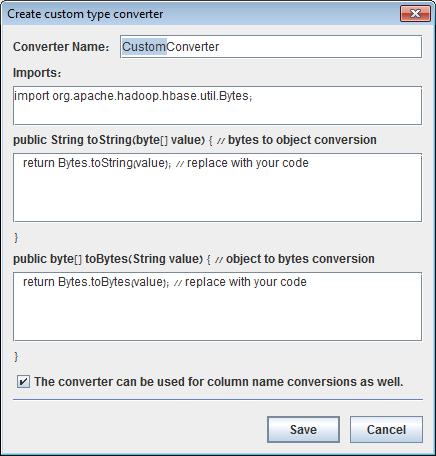
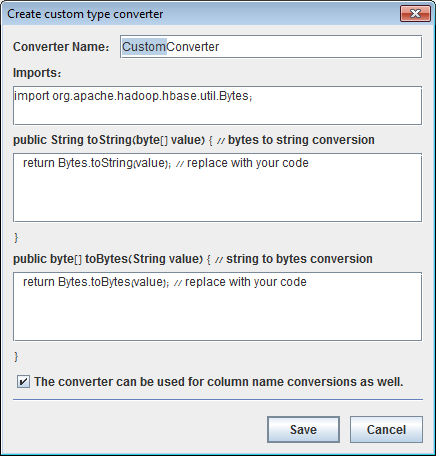
fix misstype

Changed region(s): [[0.6261, 0.2763, 0.8647, 0.3377], [0.5069, 0.5526, 0.8647, 0.5833]]

diff --git a/src/main/java/hrider/ui/forms/CustomConverterDialog.java b/src/main/java/hrider/ui/forms/CustomConverterDialog.java
@@ -350,7 +350,7 @@ public class CustomConverterDialog extends JDialog {
         taImports.setText("import org.apache.hadoop.hbase.util.Bytes;");
         scrollPane2.setViewportView(taImports);
         final JLabel label2 = new JLabel();
-        label2.setText("public String toString(byte[] value) { // bytes to object conversion");
+        label2.setText("public String toString(byte[] value) { // bytes to string conversion");
         panel3.add(
             label2, new GridConstraints(
             2, 0, 1, 1, GridConstraints.ANCHOR_WEST, GridConstraints.FILL_NONE, GridConstraints.SIZEPOLICY_FIXED, GridConstraints.SIZEPOLICY_FIXED, null, null,
@@ -362,7 +362,7 @@ public class CustomConverterDialog extends JDialog {
             4, 0, 1, 1, GridConstraints.ANCHOR_WEST, GridConstraints.FILL_NONE, GridConstraints.SIZEPOLICY_FIXED, GridConstraints.SIZEPOLICY_FIXED, null, null,
             null, 0, false));
         final JLabel label4 = new JLabel();
-        label4.setText("public byte[] toBytes(String value) { // object to bytes conversion");
+        label4.setText("public byte[] toBytes(String value) { // string to bytes conversion");
         panel3.add(
             label4, new GridConstraints(
             5, 0, 1, 1, GridConstraints.ANCHOR_WEST, GridConstraints.FILL_NONE, GridConstraints.SIZEPOLICY_FIXED, GridConstraints.SIZEPOLICY_FIXED, null, null,
